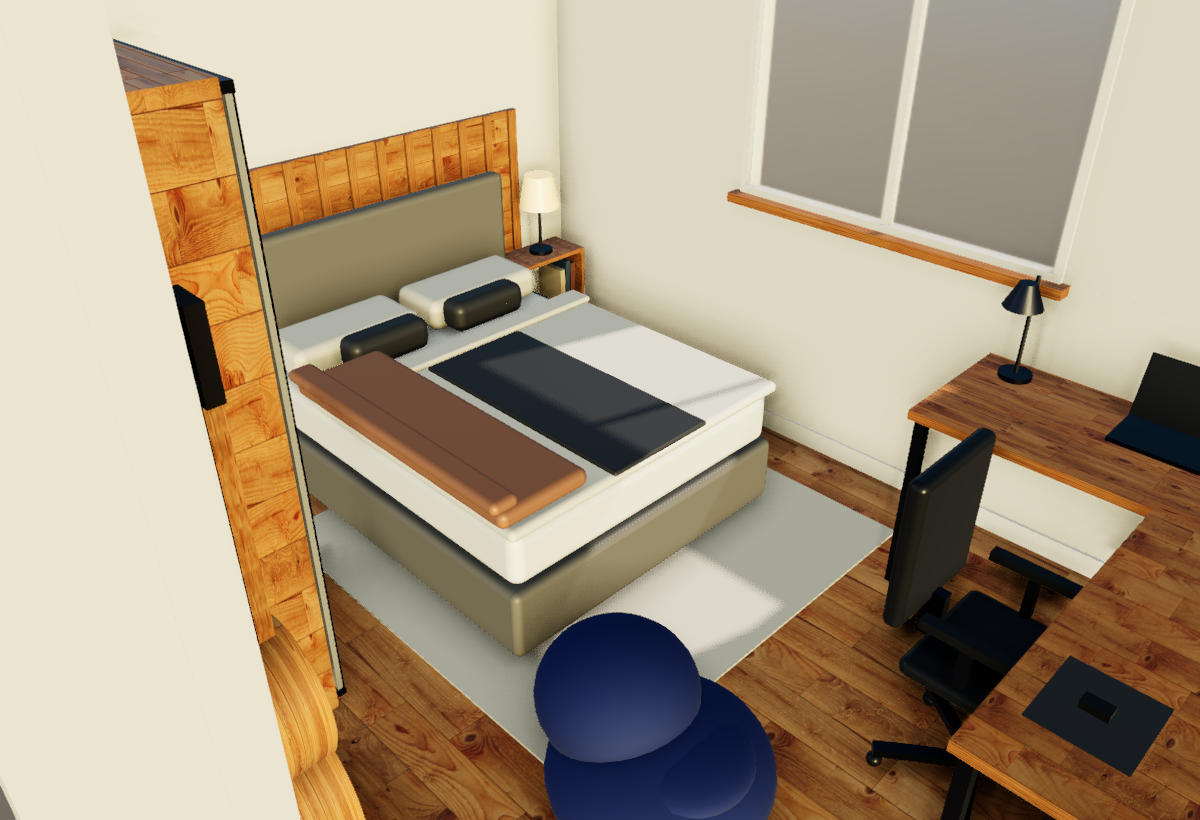
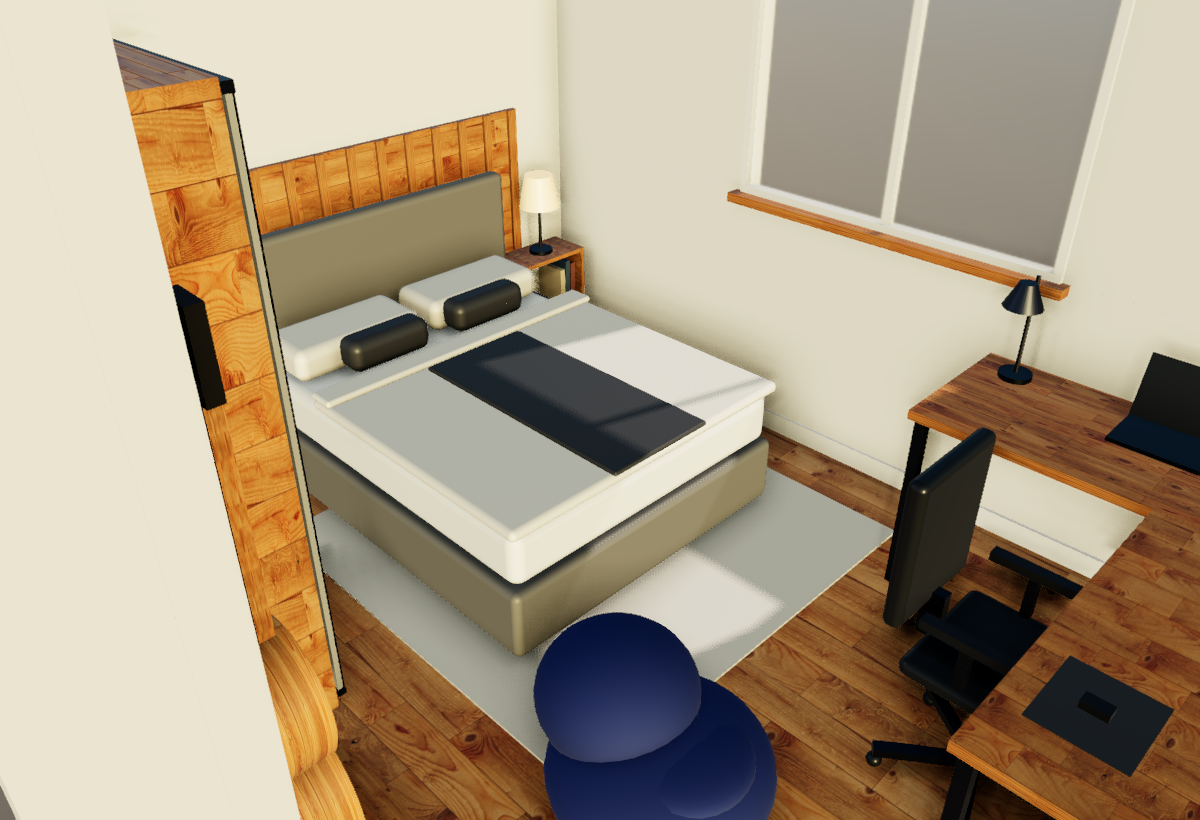
fix(quarto): remove manta do pé da cama e atualiza miniatura
A manta terracota lia como um bloco estranho sobre a cama; removida
(geometria + material). Miniatura da home regenerada sem o item.

Claude-Session: https://claude.ai/code/session_012eZseJsJGQpw4fL9aY9ZrV

Changed region(s): [[0.2467, 0.4268, 0.4933, 0.6402]]

diff --git a/public/quarto-3d/index.html b/public/quarto-3d/index.html
@@ -116,8 +116,6 @@ _fabric(mat.linen, 12, 0.010, 0.92);
 _fabric(mat.white, 12, 0.008, 0.90);
 _fabric(mat.charcoal, 12, 0.012, 0.90);
 _fabric(mat.rug, 18, 0.020, 1.0);
-mat.throw = new THREE.MeshStandardMaterial({ color: 0x9c6b4f, roughness: 0.9, metalness: 0, name: 'manta_pe_cama' });
-_fabric(mat.throw, 10, 0.014, 0.9);
 
 // Reboco fosco (parede/teto) com microtextura.
 const _plasterCv = _cvs(256, (x, s) => {
@@ -182,9 +180,6 @@ rbox('travesseiro_1', mat.linen, 0.14, 0.44, 0.56, 1.16, 0.54, 0.68, 0.045);
 rbox('travesseiro_2', mat.linen, 0.14, 0.44, 1.22, 1.82, 0.54, 0.68, 0.045);
 rbox('almofada_1', mat.charcoal, 0.42, 0.56, 0.74, 1.12, 0.56, 0.70, 0.045);
 rbox('almofada_2', mat.charcoal, 0.42, 0.56, 1.26, 1.64, 0.56, 0.70, 0.045);
-// manta dobrada no pé da cama (ambientação)
-rbox('manta_pe', mat.throw, 0.55, 1.78, 1.52, 1.90, 0.585, 0.655, 0.03);
-rbox('manta_pe_dobra', mat.throw, 0.55, 1.78, 1.82, 1.93, 0.655, 0.705, 0.03);
 // estantezinha suspensa na parede da cama (sobre o painel), ao lado da cabeceira — 0,40 × 0,22 m
 box('estantezinha_lateral_1', mat.oak, 0.04, 0.26, 0.08, 0.10, 0.30, 0.60);
 box('estantezinha_lateral_2', mat.oak, 0.04, 0.26, 0.46, 0.48, 0.30, 0.60);
